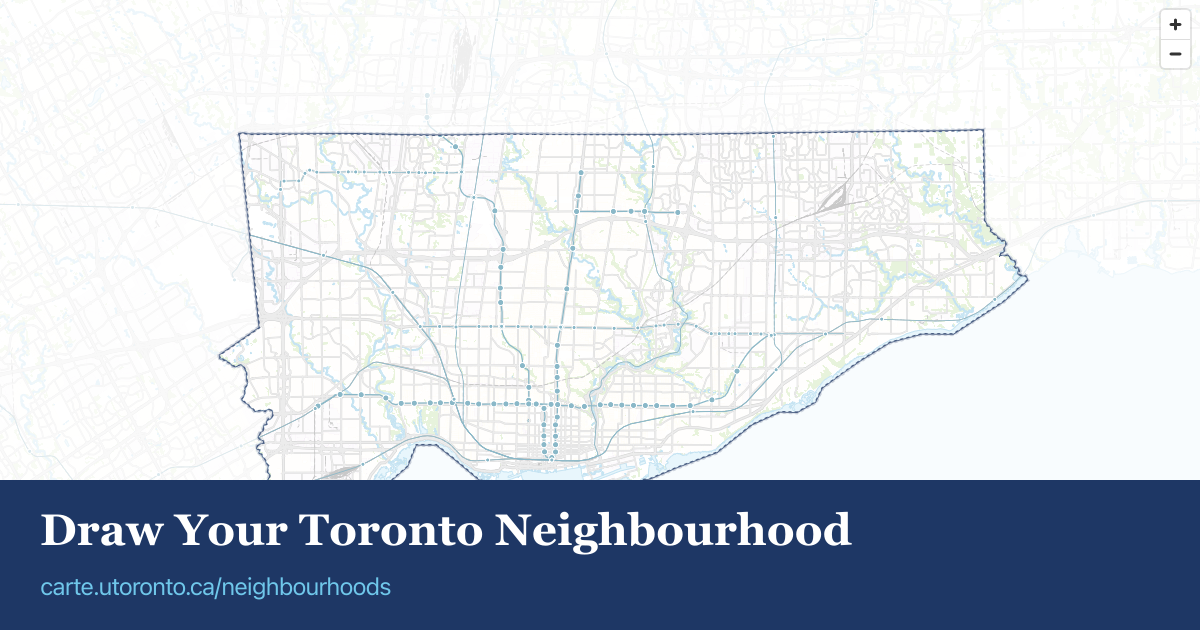
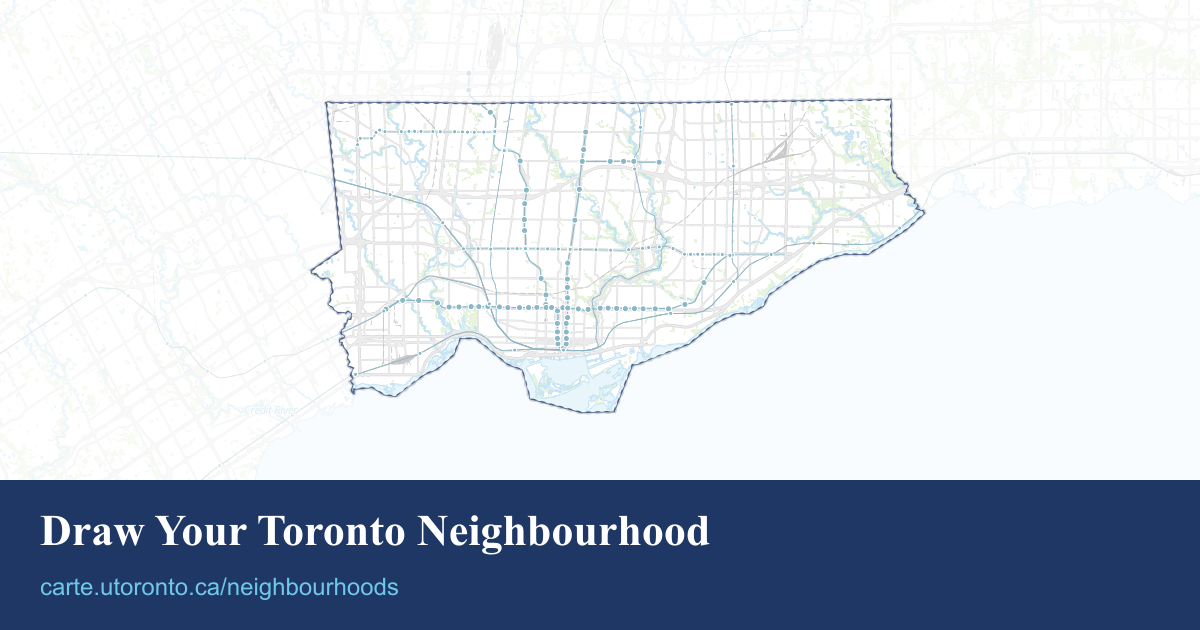
feat: rewrite OG image script as self-contained MapLibre page
Replaces the dev-server screenshot approach with a standalone HTML page
rendered by Playwright. Replicates the app's canvas mask, Toronto boundary
layers, bearing, and transit styling exactly. No dev server required to
regenerate — run `npm run og:generate`.

diff --git a/scripts/generate-og-image.ts b/scripts/generate-og-image.ts
@@ -6,48 +6,192 @@ import path from 'path';
 const WIDTH = 1200;
 const HEIGHT = 630;
 const BAR_HEIGHT = 150;
+const MAP_HEIGHT = HEIGHT - BAR_HEIGHT; // 480
 
-const svgOverlay = `<svg xmlns="http://www.w3.org/2000/svg" width="${WIDTH}" height="${HEIGHT}">
-  <rect x="0" y="${HEIGHT - BAR_HEIGHT}" width="${WIDTH}" height="${BAR_HEIGHT}" fill="#1E3765"/>
+const navyBarSvg = `<svg xmlns="http://www.w3.org/2000/svg" width="${WIDTH}" height="${BAR_HEIGHT}">
+  <rect width="${WIDTH}" height="${BAR_HEIGHT}" fill="#1E3765"/>
   <text
-    x="40" y="${HEIGHT - BAR_HEIGHT + 65}"
-    font-family="Georgia, serif"
+    x="40" y="65"
+    font-family="Times New Roman, serif"
     font-size="44"
     font-weight="bold"
     fill="white"
   >Draw Your Toronto Neighbourhood</text>
   <text
-    x="40" y="${HEIGHT - BAR_HEIGHT + 115}"
-    font-family="system-ui, sans-serif"
+    x="40" y="115"
+    font-family="Arial, sans-serif"
     font-size="24"
     fill="#6FC7EA"
   >carte.utoronto.ca/neighbourhoods</text>
 </svg>`;
 
 async function main() {
+  const root = path.resolve('.');
+
+  const torontoGeoJson  = JSON.parse(fs.readFileSync(path.join(root, 'src/toronto.json'), 'utf-8'));
+  const mapStyle        = JSON.parse(fs.readFileSync(path.join(root, 'src/assets/map-style.json'), 'utf-8'));
+  const transitLines    = JSON.parse(fs.readFileSync(path.join(root, 'src/assets/toronto-data/current-lines.geo.json'), 'utf-8'));
+  const transitStations = JSON.parse(fs.readFileSync(path.join(root, 'src/assets/toronto-data/current-stations.geo.json'), 'utf-8'));
+  const parkPoints      = JSON.parse(fs.readFileSync(path.join(root, 'src/assets/toronto-data/park-points.geo.json'), 'utf-8'));
+
+  // Polygon coordinates (lng, lat) used for the mask and boundary layers
+  const torontoPolygon: [number, number][] = torontoGeoJson.coordinates[0];
+
+  // Bounding box of the polygon — same calculation as TORONTO_FIT_BOUNDS in MapEditor
+  const torontoBounds = torontoPolygon.reduce<[[number, number], [number, number]]>(
+    ([[minLng, minLat], [maxLng, maxLat]], [lng, lat]) => [
+      [Math.min(minLng, lng), Math.min(minLat, lat)],
+      [Math.max(maxLng, lng), Math.max(maxLat, lat)],
+    ],
+    [[Infinity, Infinity], [-Infinity, -Infinity]]
+  );
+
+  // Attach data sources to the style object before passing to MapLibre
+  mapStyle.sources['transit-lines']     = { type: 'geojson', data: transitLines };
+  mapStyle.sources['transit-stations']  = { type: 'geojson', data: transitStations };
+  mapStyle.sources['park-points']       = { type: 'geojson', data: parkPoints };
+  mapStyle.sources['toronto-boundary']  = {
+    type: 'geojson',
+    data: { type: 'Feature', geometry: { type: 'LineString', coordinates: torontoPolygon } },
+  };
+
+  const html = `<!DOCTYPE html>
+<html>
+<head>
+  <meta charset="UTF-8" />
+  <script src="https://unpkg.com/maplibre-gl/dist/maplibre-gl.js"></script>
+  <link href="https://unpkg.com/maplibre-gl/dist/maplibre-gl.css" rel="stylesheet" />
+  <style>
+    * { margin: 0; padding: 0; }
+    html, body { width: ${WIDTH}px; height: ${MAP_HEIGHT}px; overflow: hidden; }
+    #map { width: ${WIDTH}px; height: ${MAP_HEIGHT}px; position: relative; }
+  </style>
+</head>
+<body>
+  <div id="map"></div>
+  <script>
+    const torontoPolygon = ${JSON.stringify(torontoPolygon)};
+    const torontoBounds  = ${JSON.stringify(torontoBounds)};
+
+    const map = new maplibregl.Map({
+      container: 'map',
+      style: ${JSON.stringify(mapStyle)},
+      center: [-79.3832, 43.6532],
+      zoom: 11,
+      bearing: 0,
+      interactive: false,
+      attributionControl: false,
+    });
+
+    map.on('load', () => {
+      // Fit to Toronto bounds at bearing 0 (same zoom as the app), then rotate —
+      // passing bearing to fitBounds lowers the zoom to fit rotated corners, which isn't what the app does
+      map.fitBounds(torontoBounds, { padding: 20, bearing: 0, animate: false });
+      map.setBearing(-17);
+
+      // Canvas mask: white overlay with the Toronto polygon cut out
+      const mapEl = document.getElementById('map');
+      const maskCanvas = document.createElement('canvas');
+      maskCanvas.style.cssText = 'position:absolute;top:0;left:0;width:100%;height:100%;pointer-events:none;z-index:1';
+      maskCanvas.width  = ${WIDTH};
+      maskCanvas.height = ${MAP_HEIGHT};
+      mapEl.appendChild(maskCanvas);
+
+      const drawMask = () => {
+        const ctx = maskCanvas.getContext('2d');
+        ctx.clearRect(0, 0, ${WIDTH}, ${MAP_HEIGHT});
+        ctx.fillStyle = 'rgba(255,255,255,0.75)';
+        ctx.fillRect(0, 0, ${WIDTH}, ${MAP_HEIGHT});
+        ctx.globalCompositeOperation = 'destination-out';
+        ctx.beginPath();
+        torontoPolygon.forEach(([lng, lat], i) => {
+          const pt = map.project([lng, lat]);
+          if (i === 0) ctx.moveTo(pt.x, pt.y);
+          else ctx.lineTo(pt.x, pt.y);
+        });
+        ctx.closePath();
+        ctx.fill();
+        ctx.globalCompositeOperation = 'source-over';
+      };
+      map.on('render', drawMask);
+
+      // Toronto boundary: dashed + solid overlay (matches MapEditor exactly)
+      map.addLayer({ id: 'toronto-boundary-dashed', type: 'line', source: 'toronto-boundary',
+        paint: { 'line-color': '#1E3765', 'line-width': 3, 'line-dasharray': [1, 1] } });
+      map.addLayer({ id: 'toronto-boundary-solid', type: 'line', source: 'toronto-boundary',
+        paint: { 'line-color': '#1E3765', 'line-width': 1.5 } });
+
+      // Transit lines — subway routes thicker
+      map.addLayer({
+        id: 'transit-lines-layer', type: 'line', source: 'transit-lines',
+        paint: {
+          'line-color': '#6FA8BB',
+          'line-width': ['match', ['get', 'NAME'],
+            ['Line 1: Yonge-University Subway', 'Line 2: Bloor-Danforth Subway', 'Line 4: Sheppard Subway'],
+            1.25, 0.75],
+        },
+      }, 'water_polygons_labels_large');
+
+      // Transit stations — subway stations larger
+      map.addLayer({
+        id: 'transit-stations-layer', type: 'circle', source: 'transit-stations',
+        paint: {
+          'circle-radius': ['match', ['get', 'NAME'],
+            ['Line 1: Yonge-University Subway', 'Line 2: Bloor-Danforth Subway', 'Line 4: Sheppard Subway'],
+            3, 2],
+          'circle-color': '#6FA8BB',
+          'circle-stroke-color': 'white',
+          'circle-stroke-width': 1,
+        },
+      }, 'water_polygons_labels_large');
+
+      // Priority park labels (High Park, islands, etc.)
+      const priorityParks = ['High Park', 'Toronto Island Park', "Bluffer's Park",
+        'Morningside Park', 'Rouge Park', 'Earl Bales Park'];
+      map.addLayer({
+        id: 'park-labels-priority', type: 'symbol', source: 'park-points', minzoom: 11,
+        filter: ['in', ['get', 'name'], ['literal', priorityParks]],
+        layout: { 'text-field': ['get', 'name'], 'text-font': ['Open Sans Italic'],
+          'text-size': 11, 'text-offset': [0, 0.5], 'text-anchor': 'top', 'text-allow-overlap': false },
+        paint: { 'text-color': '#5f8639', 'text-halo-color': 'white', 'text-halo-width': 1.5 },
+      });
+
+      // Priority transit station labels
+      const priorityStations = ['Cedervale', 'Eglinton', 'Union', 'Kennedy', 'Kipling',
+        'Finch West', 'Finch', 'Don Mills', 'Mount Dennis', 'St. George', 'Bloor-Yonge', 'Sheppard-Yonge'];
+      map.addLayer({
+        id: 'transit-station-labels', type: 'symbol', source: 'transit-stations', minzoom: 11.5,
+        filter: ['all',
+          ['in', ['get', 'LOCATION_N'], ['literal', priorityStations]],
+          ['any', ['!=', ['get', 'LOCATION_N'], 'Eglinton'],
+                  ['==', ['get', 'NAME'], 'Line 1: Yonge-University Subway']]],
+        layout: { 'text-field': ['get', 'LOCATION_N'], 'text-font': ['Open Sans Bold'],
+          'text-size': 11, 'text-offset': [0, 0.5], 'text-anchor': 'top', 'text-allow-overlap': false },
+        paint: { 'text-color': '#5c7f8b', 'text-halo-color': 'white', 'text-halo-width': 1.5 },
+      });
+    });
+
+    map.on('idle', () => { window.__mapReady = true; });
+  </script>
+</body>
+</html>`;
+
   const browser = await chromium.launch();
   const page = await browser.newPage();
 
-  await page.setViewportSize({ width: WIDTH, height: HEIGHT });
-  await page.addInitScript(() => {
-    localStorage.setItem('hasSeenWelcomeModal', 'true');
-  });
-  await page.goto('http://localhost:3000/neighbourhoods/');
+  // Serve MapLibre from local node_modules — no network dependency for the script itself
+  await page.route('**/maplibre-gl.js', route =>
+    route.fulfill({ path: path.join(root, 'node_modules/maplibre-gl/dist/maplibre-gl.js') })
+  );
+  await page.route('**/maplibre-gl.css', route =>
+    route.fulfill({ path: path.join(root, 'node_modules/maplibre-gl/dist/maplibre-gl.css') })
+  );
 
-  // Wait for the map canvas to appear (MapLibre initialises async)
-  await page.waitForSelector('.maplibregl-canvas');
+  await page.setViewportSize({ width: WIDTH, height: MAP_HEIGHT });
+  await page.setContent(html, { waitUntil: 'domcontentloaded' });
 
-  // Hide the sidebar so only the map fills the viewport
-  await page.evaluate(() => {
-    const root = document.querySelector('#root > div') as HTMLElement | null;
-    if (!root) throw new Error('#root > div not found');
-    const sidebar = root.firstElementChild as HTMLElement | null;
-    if (!sidebar) throw new Error('sidebar element not found');
-    sidebar.style.display = 'none';
-  });
-
-  // Wait for tile network requests to settle
-  await page.waitForLoadState('networkidle');
+  // Wait until MapLibre signals idle (tiles loaded, mask drawn, fitBounds settled)
+  await page.waitForFunction(() => (window as any).__mapReady === true, { timeout: 30000 });
 
   const screenshotBuffer = await page.screenshot();
   await browser.close();
@@ -55,9 +199,14 @@ async function main() {
   const outputPath = path.resolve('public/og-image.png');
   fs.mkdirSync('public', { recursive: true });
 
-  await sharp(screenshotBuffer)
-    .resize(WIDTH, HEIGHT)
-    .composite([{ input: Buffer.from(svgOverlay), top: 0, left: 0 }])
+  // Stack the 1200×480 map screenshot + 150px navy bar = final 1200×630 PNG
+  await sharp({
+    create: { width: WIDTH, height: HEIGHT, channels: 4, background: { r: 255, g: 255, b: 255, alpha: 1 } },
+  })
+    .composite([
+      { input: screenshotBuffer, top: 0, left: 0 },
+      { input: Buffer.from(navyBarSvg), top: MAP_HEIGHT, left: 0 },
+    ])
     .png()
     .toFile(outputPath);
 
